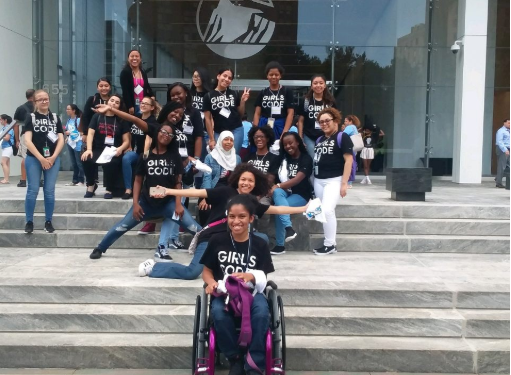
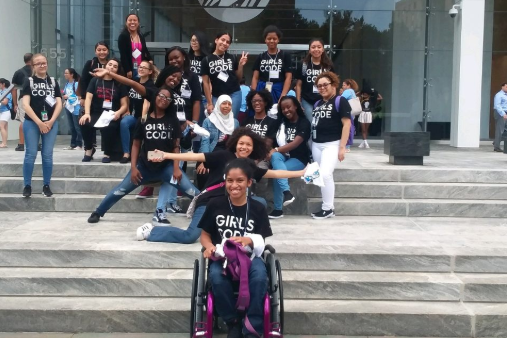
added carousel

diff --git a/about.html b/about.html
@@ -29,7 +29,11 @@
     <div class="body">
       <div id="group_photo">
         <!-- <p>[INSERT GROUP PHOTO HERE]</p> -->
-        <img src="./carousel_images/getting_ids.jpg" alt="">
+        <img id="image" src="./carousel_images/getting_ids.jpg" alt="">
+      </div>
+      <div class="arrows">
+        <i class="fas fa-angle-left" onclick="lastPic()"></i>
+        <i class="fas fa-angle-right" onclick="nextPic()"></i>
       </div>
       <div class="about">
         <div class="column" id="left">
@@ -37,16 +41,19 @@
           <p><i class="fab fa-instagram"></i> @kyra.jay</p>
           </br>
           <p>My name is <em>Venessa Okoroanyanwu</em>. I am fifteen and I am a rising junior at the Canterbury School in New Milford, CT. I did Girls Who Code this summer because I wanted to learn more about the behind the scenes of technology. I became interested in the topic of colorism in relation to technology after watching a video made by Joy Buolamwini, and that interest lead to the making of this website.</p>
+          <p><i class="fab fa-instagram"></i> @banessabokoro</p>
         </div>
         <div class="column" id="right">
           <p>I’m <em>Jennah Shabazz</em>, I’m seventeen, I attend Science Park High School and am a rising senior. I decided to do Girls Who Code because when my my approached me with the idea of it I wasn’t into at first but when she started to explain what they do and why they do it I thought that it would be cool to be involved so i sent in my application. I decided to join the project about colorism because it’s a big issue in america but not too many people notice it or if they do they ignore it and hope it fixes itself.</p>
           <p><i class="fab fa-instagram"></i> @lavvish.jay</p>
           </br>
           <p>My name is <em>Brianna Rodriguez</em>, I’m seventeen and I am a rising junior at Donald Payne School of Technology. I decided to do Girls Who Code because I’ve wanted to pursue a career in technology since eighth grade and I really enjoy the feeling of sisterhood with young girls. Colorism is a topic that isn’t discussed often when it should be, especially in the Technology industry today. So if I can combine my passions for coding and equal rights to change that, why not! Someone has to speak up if we want this to change and i’m proud to be doing this with these amazing ladies.</p>
+          <p><i class="fab fa-instagram"></i> @briannar227</p>
         </div>
       </div>
 
     </div>
 
   </body>
+  <script type="text/javascript" src="main.js"></script>
 </html>

diff --git a/main.js b/main.js
@@ -1,0 +1,31 @@
+pictures = ["./carousel_images/getting_ids.jpg", "./carousel_images/audible_studios.png", "./carousel_images/bri_questions.jpg", "./carousel_images/coding_is_fun.jpg", "./carousel_images/love_puzzles.jpg", "./carousel_images/tech_day.png", "./carousel_images/walking-in.jpg", "./carousel_images/brianna_smiling.JPG", "./carousel_images/bri_typing.JPG", "./carousel_images/jennah_typing.JPG", "./carousel_images/jennah_typing2.JPG"]
+
+function lastPic() {
+  var getImage = document.getElementById("image");
+  var imgSrc = image.getAttribute("src");
+  var imgIndex = pictures.indexOf(imgSrc);
+
+  if(imgIndex === 0){
+    imgIndex = pictures.length - 1;
+  } else {
+    imgIndex -= 1;
+  }
+
+  imgSrc = pictures[imgIndex];
+  image.src = imgSrc;
+}
+
+function nextPic() {
+  var getImage = document.getElementById("image");
+  var imgSrc = image.getAttribute("src");
+  var imgIndex = pictures.indexOf(imgSrc);
+
+  if(imgIndex === pictures.length - 1){
+    imgIndex = 0;
+  } else {
+    imgIndex += 1;
+  }
+
+  imgSrc = pictures[imgIndex];
+  image.src = imgSrc;
+}

diff --git a/main.css b/main.css
@@ -104,10 +104,9 @@ em {
 #group_photo {
   background-color: rgba(239, 207, 195, 0.5);
   width: 37%;
-  height: 250px;
-  border: solid black 2px;
+  /* height: 250px; */
   display: block;
-  margin: 2% auto;
+  margin: 2% auto 0 auto;
 }
 
 #group_photo p {
@@ -118,9 +117,11 @@ em {
 }
 
 #group_photo img {
-  height: 250px;
+  /* height: 250px; */
+  width: 100%;
   display: block;
   margin: 0 auto;
+  border: solid black 2px;
 }
 
 .column i {
@@ -148,4 +149,23 @@ em {
 
 .column {
   padding-bottom: 25px;
+}
+
+.arrows {
+  width: 6%;
+  margin: 0 48%;
+}
+
+.arrows i {
+  text-align: center;
+  font-size: 40px;
+  padding: 0 5%;
+}
+
+.arrows i:hover {
+ color: rgb(255, 255, 255);
+}
+
+.arrows i:active {
+ color: rgb(85, 41, 23);
 }
